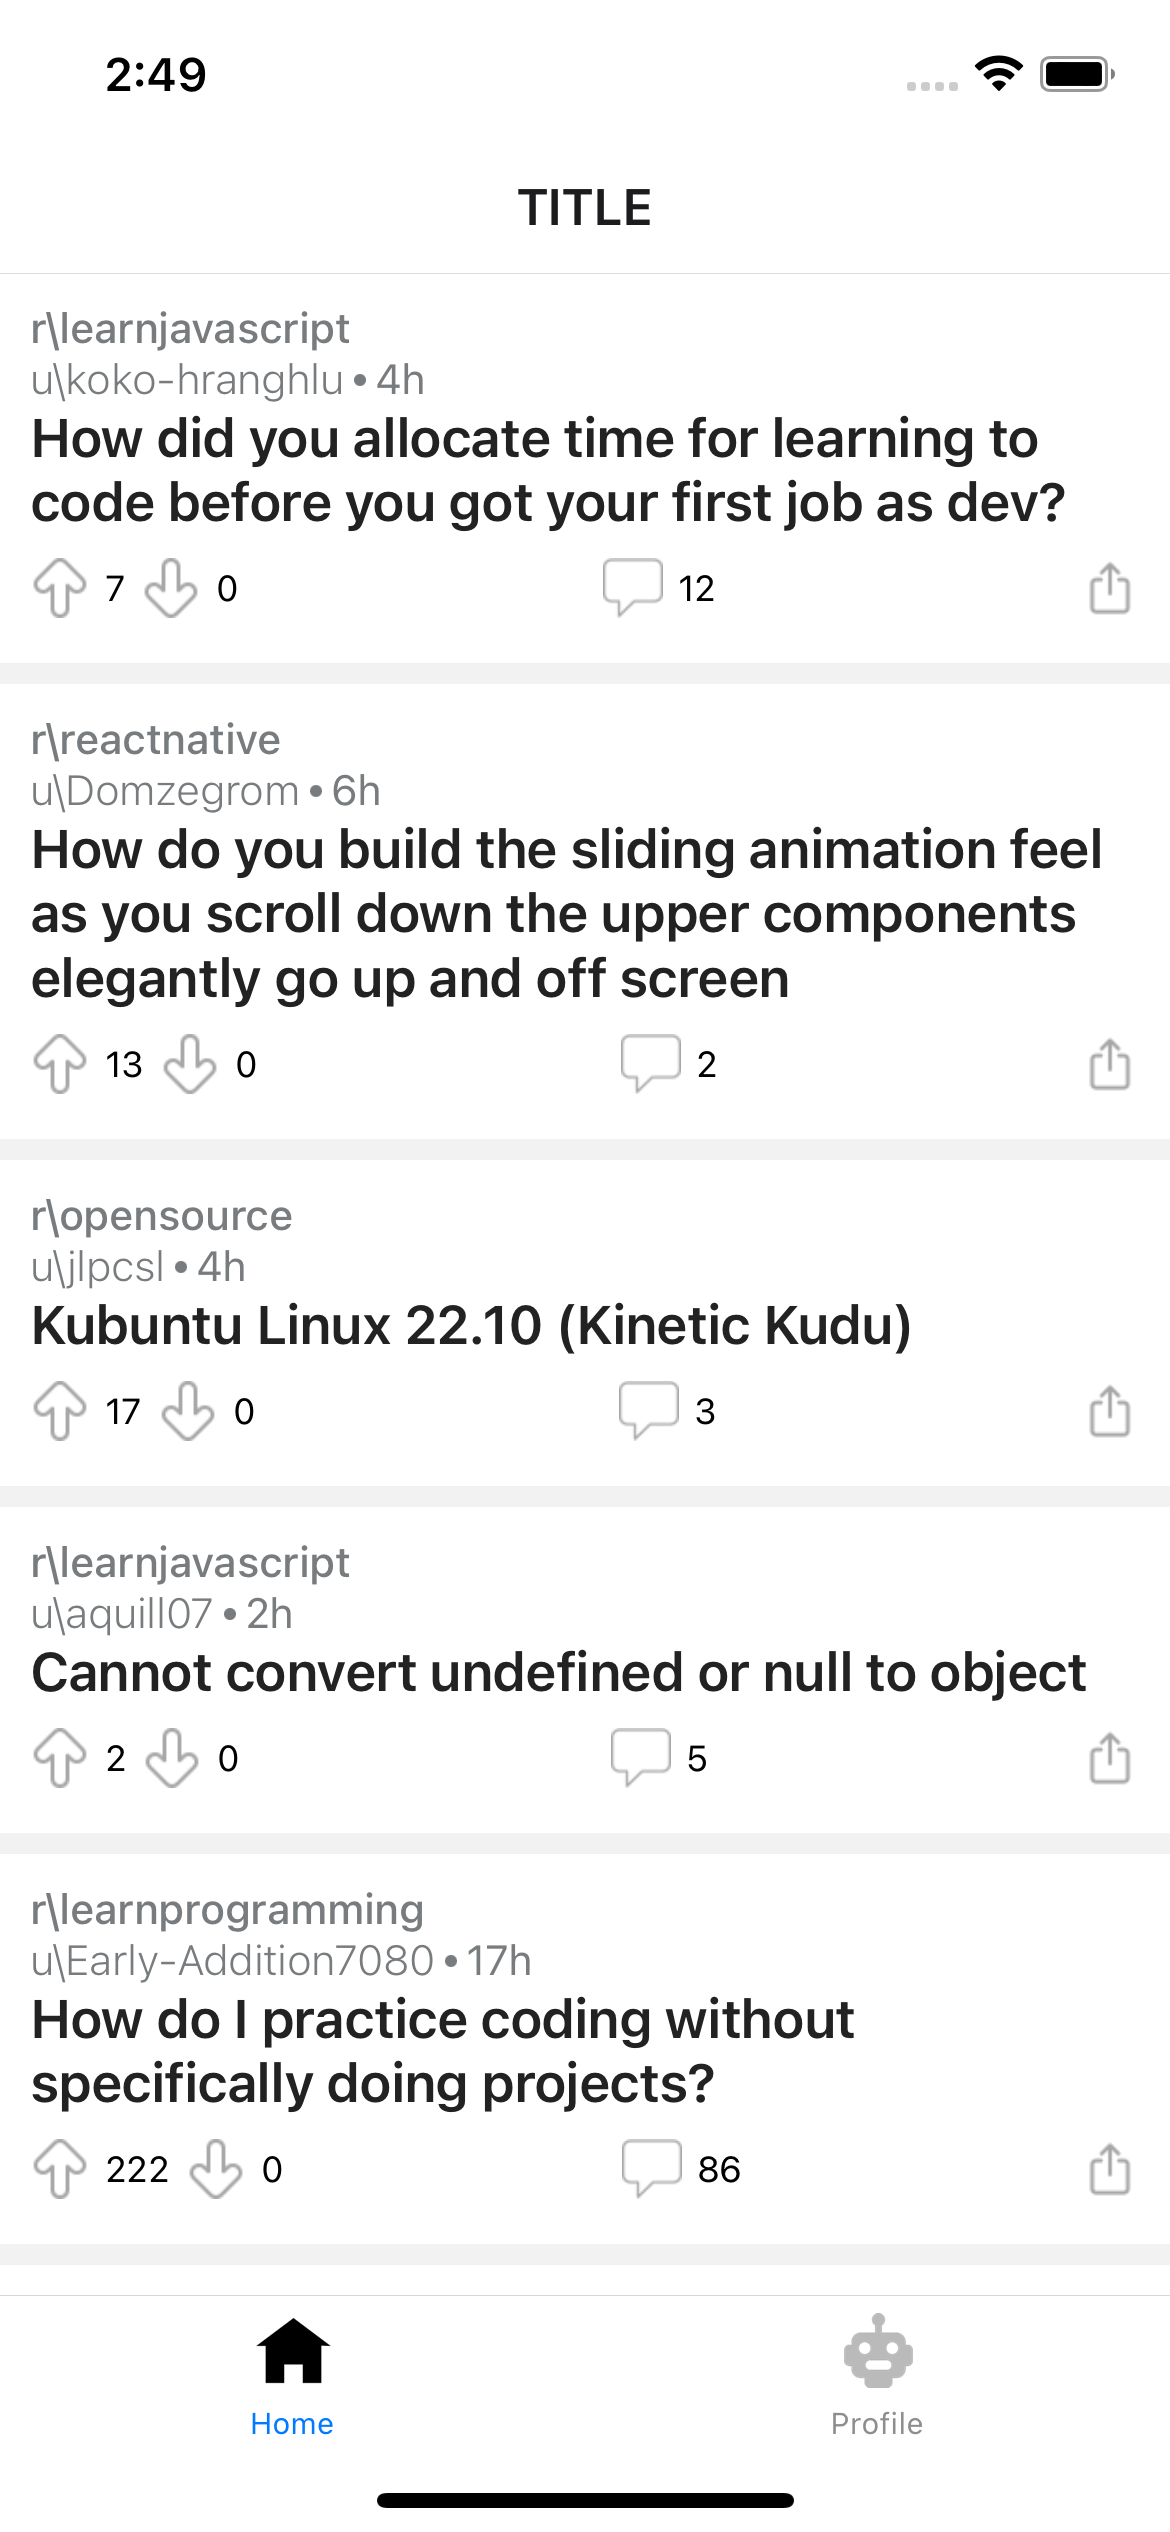
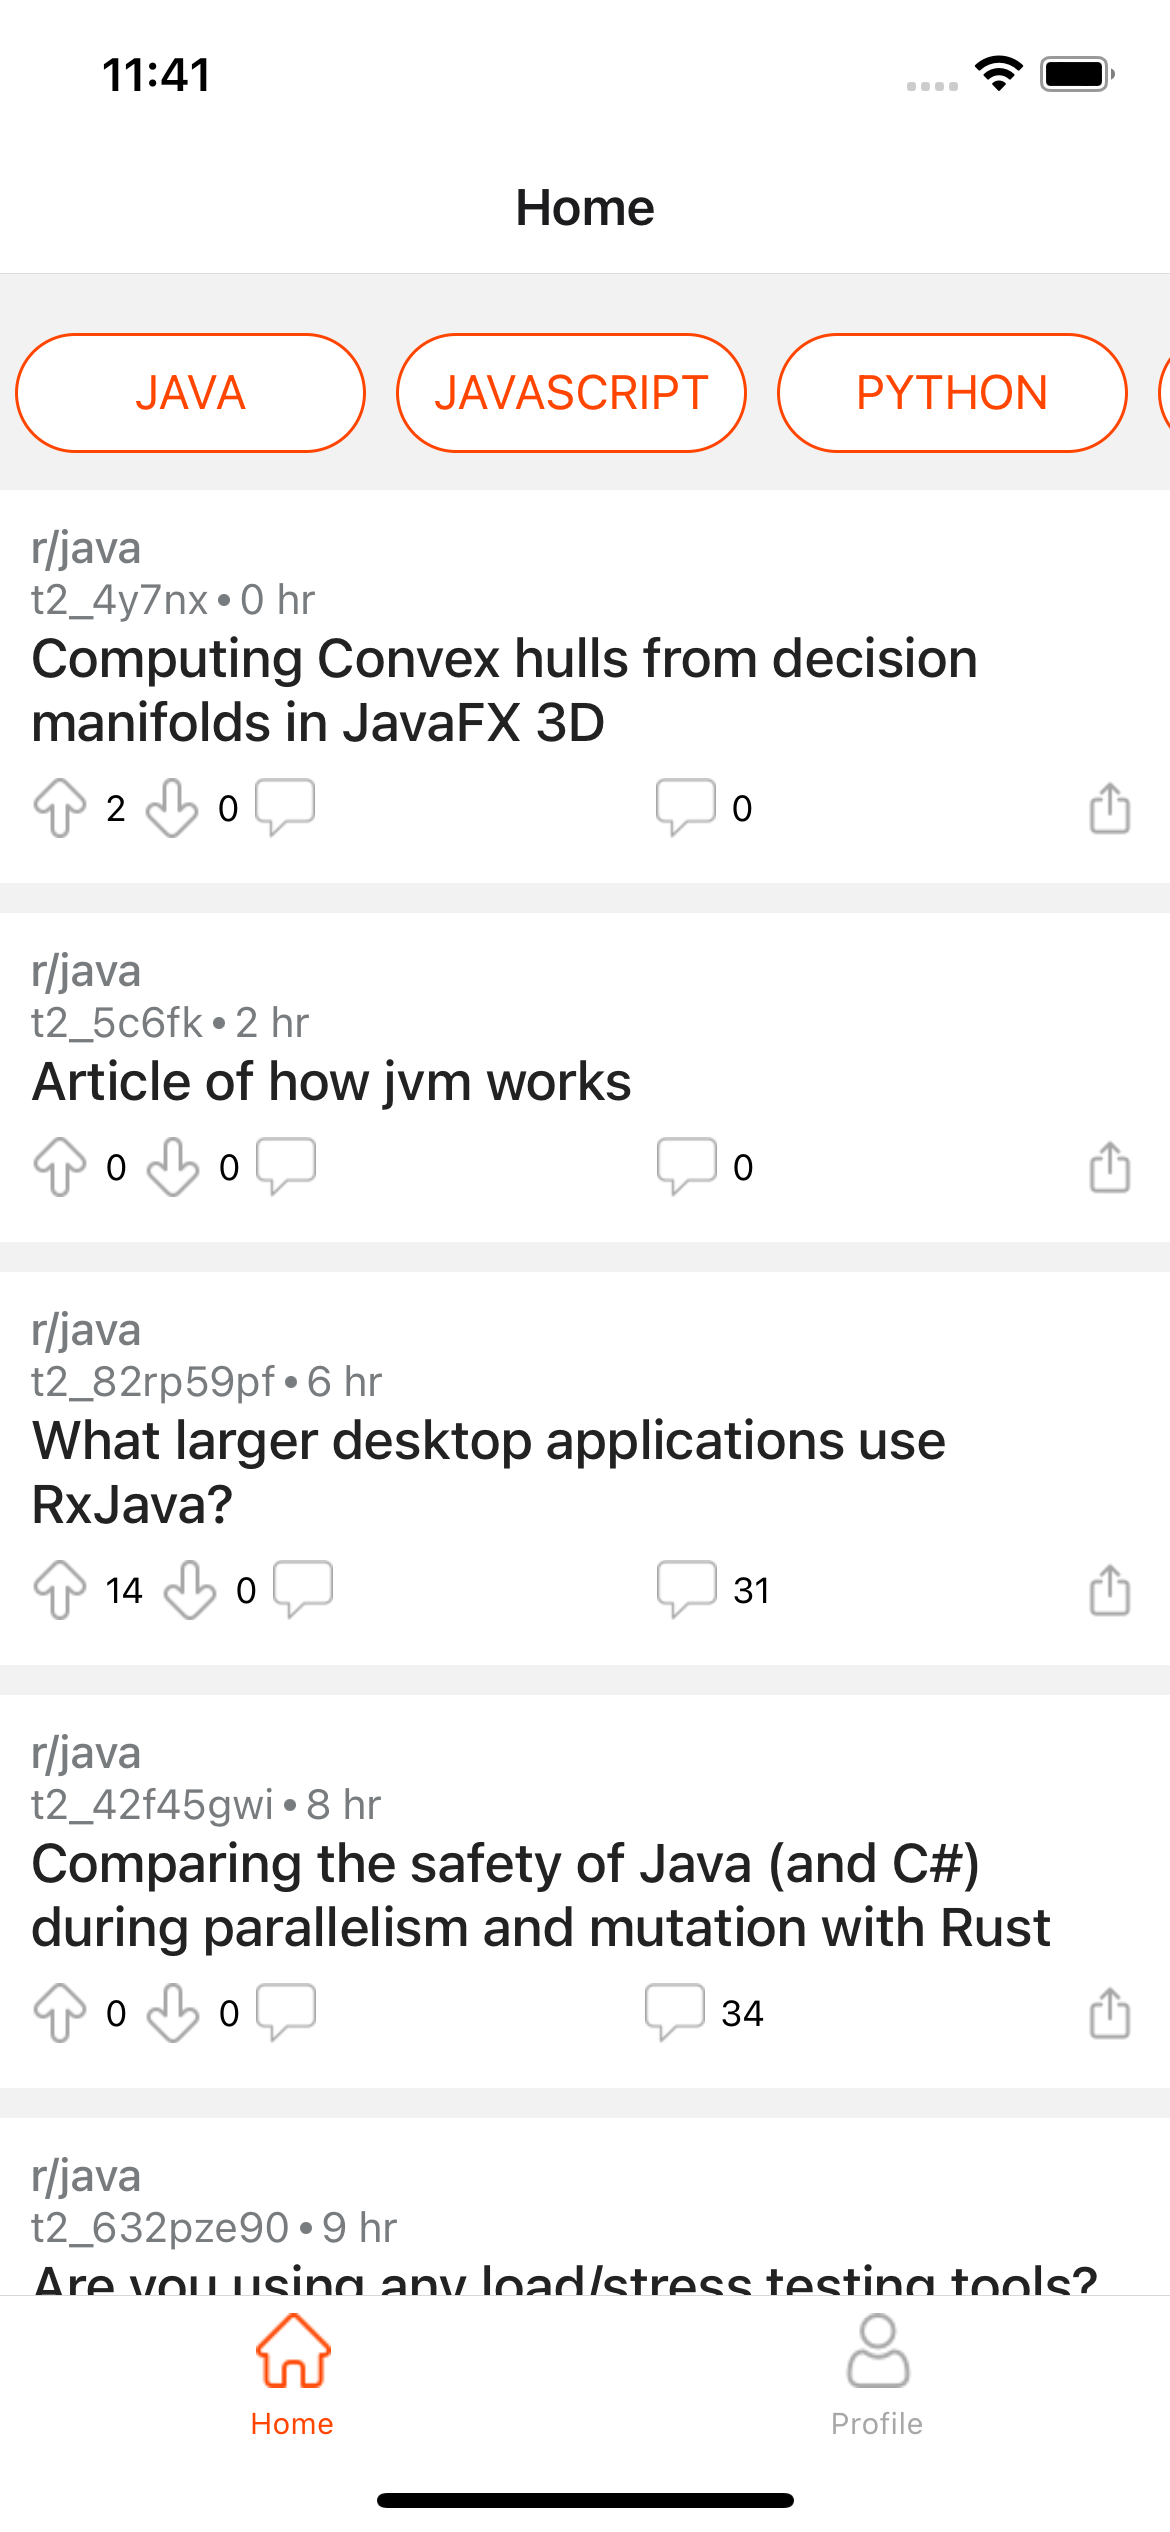
READ ME updated with latest filter

diff --git a/README.md b/README.md
@@ -11,7 +11,7 @@ Reddit Clone written in Bare React Native.
 
 
 Covered and WIP:
-1. Filter Posts👨💻
+1. Filter Posts✅
 2. Redux-Saga👨💻
 3. Redux✅ 
 4. Focus Mode should play the video✅ 
